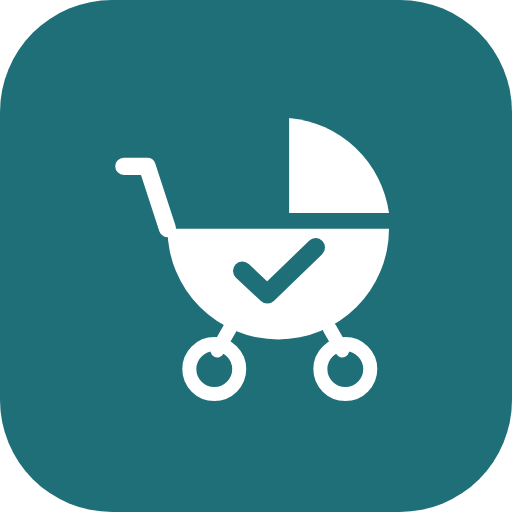
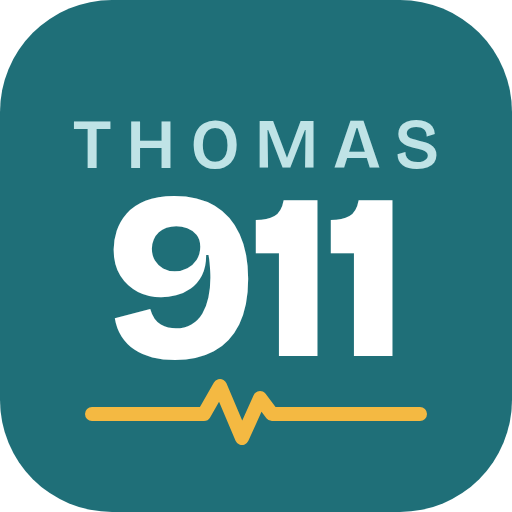
Icône THOMAS 911, icônes assorties poussette / boîte à bruit, 3 nouveaux sons
- Icône de l'app : « THOMAS » au-dessus d'un grand « 911 » et une ligne de
  pouls dorée (source : icon-app.svg ; PNG générés).
- Tuiles de l'accueil : icône poussette (l'ancienne icône de l'app) et
  nouvelle icône boîte à bruit dans le même style (haut-parleur plein,
  ondes en trait épais, lune découpée comme la coche de la poussette).
- Boîte à bruit : Sèche-cheveux, Ventilateur, Aspirateur.

Claude-Session: https://claude.ai/code/session_01NnHgL6QFgoYbQVTE9XRNJG

diff --git a/bruit.html b/bruit.html
@@ -150,6 +150,16 @@ function addHeart(out, sr, n, bpm, level) {
     out[i] += level * (thump(t, 58, 40, 1) + thump(t - 0.3, 66, 46, 0.65));
   }
 }
+// Steady motor tones added onto a loop of length n, relative to the noise level.
+// Frequencies are rounded so each tone fits a whole number of cycles in the loop (no click).
+function addTones(out, sr, n, list) {
+  let sum = 0; for (let i = 0; i < n; i++) sum += out[i] * out[i];
+  const rms = Math.sqrt(sum / n);
+  for (const [f, a] of list) {
+    const w = 2 * Math.PI * Math.round(f * n / sr) / n, ph = Math.random() * 6.28;
+    for (let i = 0; i < n; i++) out[i] += a * rms * Math.sin(w * i + ph);
+  }
+}
 // Each sound: loop length (s), an optional period the loop must be a multiple of,
 // noise (stationary, filled with crossfade margin) and periodic parts (exact, added after).
 const SOUNDS = [
@@ -193,7 +203,21 @@ const SOUNDS = [
         const s = ph < 0.35 ? Math.pow(Math.sin(Math.PI / 2 * ph / 0.35), 2) : Math.exp(-(ph - 0.35) * 5);
         x[i] = (0.6 * x[i] + 0.5 * p[i]) * (0.12 + 0.88 * s);
       }
-    } }
+    } },
+  { id: "seche", name: "Sèche-cheveux", desc: "Souffle chaud et régulier, un grand classique", secs: 10,
+    noise: (x, sr) => { for (let i = 0; i < x.length; i++) x[i] = rnd(); highpass(x, sr, 400); lowpass(x, sr, 7000); },
+    periodic: (out, sr, n) => addTones(out, sr, n, [[180, 0.25], [360, 0.18], [540, 0.12], [720, 0.08], [2600, 0.05]]) },
+  { id: "ventilo", name: "Ventilateur", desc: "Souffle doux avec le ronron des pales", secs: 12, period: 1 / 24,
+    noise: (x, sr) => {
+      const p = new Float32Array(x.length); pinkFill(p); lowpass(p, sr, 1500);
+      brownFill(x, sr);
+      const P = Math.round(sr / 24); // blades passing
+      for (let i = 0; i < x.length; i++) x[i] = (0.7 * x[i] + 0.5 * p[i]) * (1 + 0.06 * Math.sin(2 * Math.PI * (i % P) / P));
+    },
+    periodic: (out, sr, n) => addTones(out, sr, n, [[48, 0.12], [100, 0.08]]) },
+  { id: "aspi", name: "Aspirateur", desc: "Bruit fort et constant qui calme les pleurs", secs: 10,
+    noise: (x, sr) => { pinkFill(x); highpass(x, sr, 250); lowpass(x, sr, 9000); },
+    periodic: (out, sr, n) => addTones(out, sr, n, [[150, 0.15], [300, 0.1], [1180, 0.18], [2360, 0.08]]) }
 ];
 const TARGET_RMS = 0.2;
 function buildBuffer(ctx, s) {

diff --git a/index.html b/index.html
@@ -44,9 +44,7 @@
 
 /* Big buttons to the tools */
 .tile { display: flex; align-items: center; gap: 14px; color: inherit; text-decoration: none; padding: 16px; }
-.tile .ico { width: 52px; height: 52px; border-radius: 14px; background: var(--accent); color: var(--accent-ink);
-  display: flex; align-items: center; justify-content: center; flex: none; }
-.tile .ico svg { width: 30px; height: 30px; }
+.tile .ico { width: 56px; height: 56px; flex: none; }
 .tile .txt { flex: 1; min-width: 0; }
 .tile strong { display: block; font-family: var(--font-display); font-weight: 800; font-size: 1.15rem; }
 .tile .txt span { color: var(--muted); font-size: 0.85rem; }
@@ -89,14 +87,14 @@
   </a>
 
   <a class="card tile" href="checklist.html">
-    <span class="ico"><svg class="i" viewBox="0 0 24 24" aria-hidden="true"><path d="M4.5 11h15a7.5 7.5 0 0 1-15 0Z"/><path d="M13 9.5V3.2A7 7 0 0 1 19.6 9.5Z"/><path d="M4.5 11 3.4 7.6H1.8"/><circle cx="8" cy="21" r="1.4"/><circle cx="16" cy="21" r="1.4"/></svg></span>
+    <img class="ico" src="icon-poussette.svg" alt="">
     <span class="txt"><strong>Checklist sortie</strong><span>Avant de partir en poussette</span></span>
     <span class="pill" id="progress" hidden></span>
     <svg class="i go" viewBox="0 0 24 24" aria-hidden="true"><path d="M9 18l6-6-6-6"/></svg>
   </a>
 
   <a class="card tile" href="bruit.html">
-    <span class="ico"><svg class="i" viewBox="0 0 24 24" aria-hidden="true"><path d="M3 12h1 M7 8v8 M11 4v16 M15 7v10 M19 10v4 M22 12h-.01"/></svg></span>
+    <img class="ico" src="icon-bruit.svg" alt="">
     <span class="txt"><strong>Boîte à bruit</strong><span>Bruit blanc, rose, chut-chut…</span></span>
     <svg class="i go" viewBox="0 0 24 24" aria-hidden="true"><path d="M9 18l6-6-6-6"/></svg>
   </a>

diff --git a/sw.js b/sw.js
@@ -1,6 +1,6 @@
 // Keeps a copy of the app on the phone so it opens without network.
 // Change VERSION whenever a file changes, so phones pick up the new copy.
-const VERSION = "thomas911-v1";
+const VERSION = "thomas911-v2";
 const FILES = [
   "./",
   "./index.html",
@@ -11,6 +11,8 @@ const FILES = [
   "./app.js",
   "./manifest.webmanifest",
   "./icon-192.png",
+  "./icon-poussette.svg",
+  "./icon-bruit.svg",
   "./icon-512.png",
   "./icon-maskable-512.png",
   "./apple-touch-icon.png",
